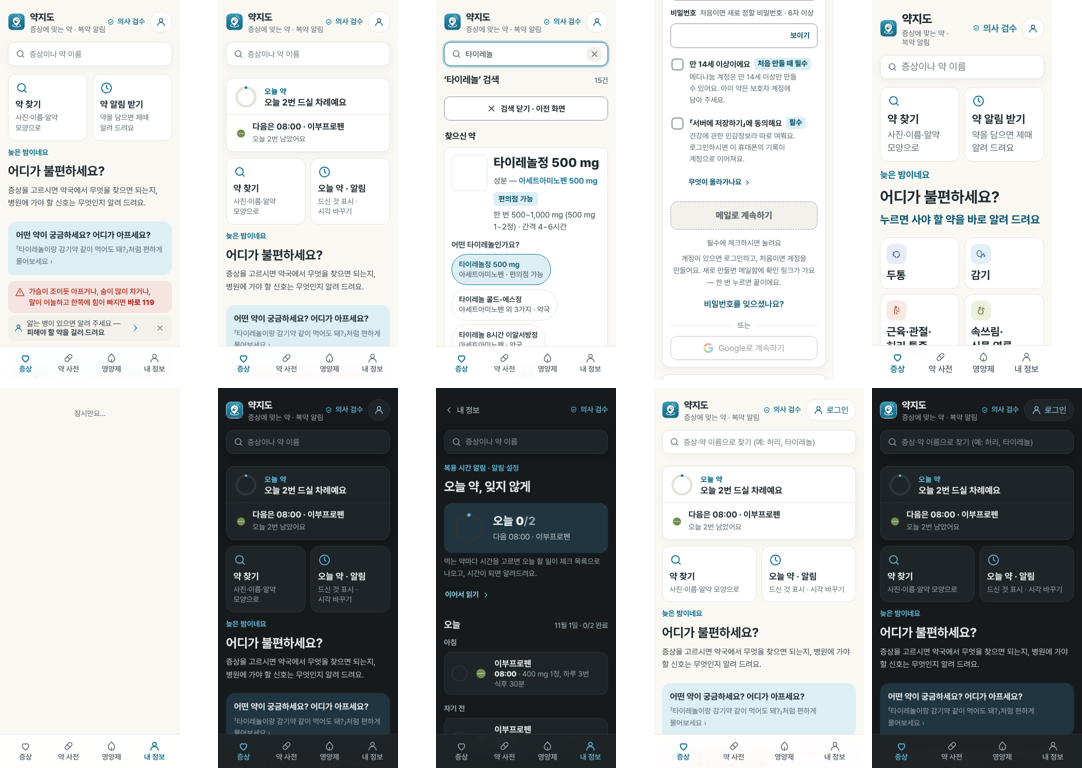
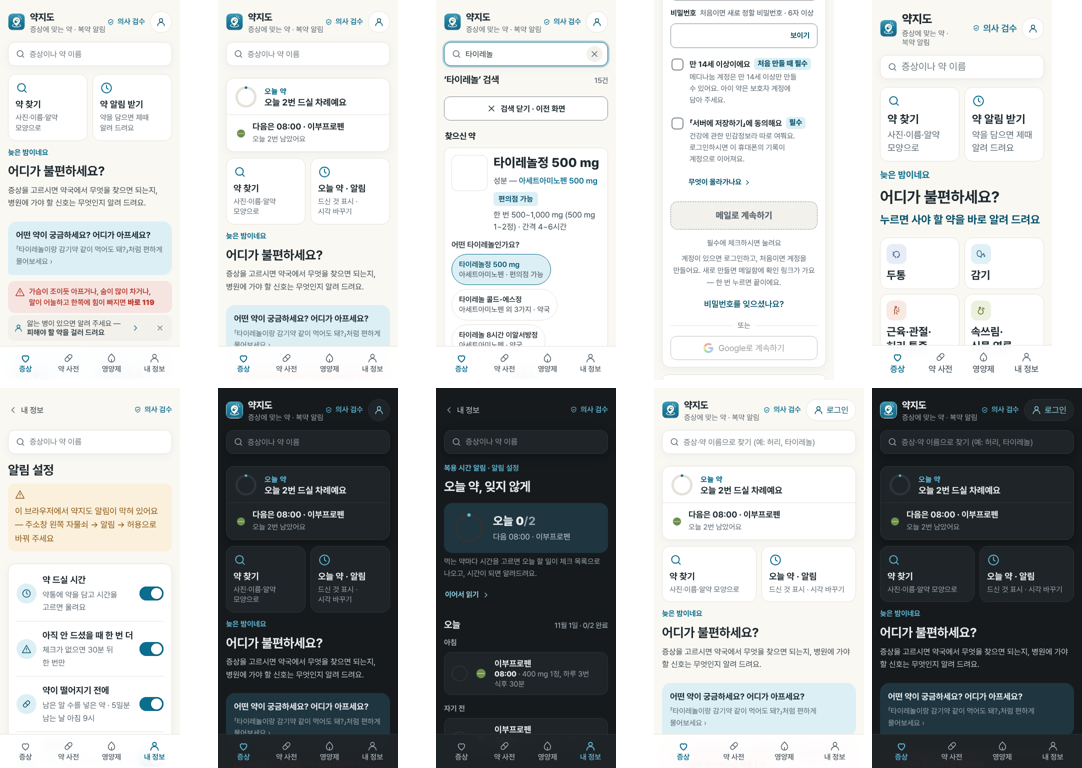
알림 설정 화면이 늦게 온 부품을 기다리다 「잠시만요」에 멈추던 것: 다시 그릴 목록에 notify·sgoal·sstage, 기다리는 동안 뼈대 칸 · 웹은 브라우저 알림 허용 안내
Claude-Session: https://claude.ai/code/session_01EnA5kC7cG7NGAyuaz7gY2Z

diff --git a/docs/yakjido/srv.js b/docs/yakjido/srv.js
@@ -1863,7 +1863,7 @@ window.문_notify = () => {
   const row = (ic, t, s2, on, fn) => `<div class="nt-row"><span class="nt-ic">${ic}</span><span class="nt-t"><b>${t}</b><small>${s2}</small></span>${sw(t, on, fn)}</div>`;
   const vn = (typeof visits === 'function' ? visits() : []).length;
   return `${topBar({ back:'내 정보' })}<h1>알림 설정</h1>
-  <p class="nt-perm ${perm === 'granted' ? 'ok' : ''}">${perm === 'granted' ? `${I.check}<span>휴대폰 알림이 켜져 있어요</span>` : perm === 'denied' ? `${I.alert}<span>휴대폰 설정에서 약지도 알림이 꺼져 있어요 — 설정 → 앱 → 약지도 → 알림을 켜 주세요</span>` : `${I.info}<span>알림을 받으려면 한 번 허락이 필요해요</span><button type="button" class="btn line" onclick="${NATIVE ? 'askNativeNoti()' : 'askNoti()'}">허락하기</button>`}</p>
+  <p class="nt-perm ${perm === 'granted' ? 'ok' : ''}">${perm === 'granted' ? `${I.check}<span>휴대폰 알림이 켜져 있어요</span>` : perm === 'denied' ? `${I.alert}<span>${typeof NATIVE !== 'undefined' && NATIVE ? '휴대폰 설정에서 약지도 알림이 꺼져 있어요 — 설정 → 앱 → 약지도 → 알림을 켜 주세요' : '이 브라우저에서 약지도 알림이 막혀 있어요 — 주소창 왼쪽 자물쇠 → 알림 → 허용으로 바꿔 주세요'}</span>` : `${I.info}<span>알림을 받으려면 한 번 허락이 필요해요</span><button type="button" class="btn line" onclick="${NATIVE ? 'askNativeNoti()' : 'askNoti()'}">허락하기</button>`}</p>
   <section class="sec card nt-list">
     ${row(I.clock, '약 드실 시간', n ? `시간을 정한 약 ${timed}가지 · 정한 시각에` : '약통에 약을 담고 시간을 고르면 울려요', noteOn('dose'), `setNoteOn('dose',${!noteOn('dose')})`)}
     ${row(I.alert, '아직 안 드셨을 때 한 번 더', '체크가 없으면 30분 뒤 한 번만', noteOn('dose') && noteOn('again'), `setNoteOn('again',${!noteOn('again')})`)}
@@ -2434,4 +2434,4 @@ try { 통합찾기.설치({ 앱: 'yakjido', 열기: function (url) { location.hr
 try { 이용량.설치({ 앱: 'yakjido', 켜짐: false, 주소: 'https://uszalzczpmyifzbamjno.supabase.co', 공개키: 'sb_publishable_YQSz-D-RCXzHGUhso06rMg_GOIIRDuV' }); 이용량.센다('open'); } catch (e) {}
 
 /* 내 정보·동의·로그인·약관 화면을 보고 있었으면 다시 그린다(이 파일이 늦게 오므로) */
-try { if (/^#\/(me|consent|login|doc|hello\/3|supp$|supp\?|sgoal|sstage|rx|about|search|myths|askdoc|talk|p\/|p\?|p$)/.test(location.hash)) route(); } catch (e) {}
+try { if (/^#\/(me|consent|login|notify|sgoal|sstage|doc|hello\/3|supp$|supp\?|sgoal|sstage|rx|about|search|myths|askdoc|talk|p\/|p\?|p$)/.test(location.hash)) route(); } catch (e) {}

diff --git a/yakjido/srv.js b/yakjido/srv.js
@@ -1863,7 +1863,7 @@ window.문_notify = () => {
   const row = (ic, t, s2, on, fn) => `<div class="nt-row"><span class="nt-ic">${ic}</span><span class="nt-t"><b>${t}</b><small>${s2}</small></span>${sw(t, on, fn)}</div>`;
   const vn = (typeof visits === 'function' ? visits() : []).length;
   return `${topBar({ back:'내 정보' })}<h1>알림 설정</h1>
-  <p class="nt-perm ${perm === 'granted' ? 'ok' : ''}">${perm === 'granted' ? `${I.check}<span>휴대폰 알림이 켜져 있어요</span>` : perm === 'denied' ? `${I.alert}<span>휴대폰 설정에서 약지도 알림이 꺼져 있어요 — 설정 → 앱 → 약지도 → 알림을 켜 주세요</span>` : `${I.info}<span>알림을 받으려면 한 번 허락이 필요해요</span><button type="button" class="btn line" onclick="${NATIVE ? 'askNativeNoti()' : 'askNoti()'}">허락하기</button>`}</p>
+  <p class="nt-perm ${perm === 'granted' ? 'ok' : ''}">${perm === 'granted' ? `${I.check}<span>휴대폰 알림이 켜져 있어요</span>` : perm === 'denied' ? `${I.alert}<span>${typeof NATIVE !== 'undefined' && NATIVE ? '휴대폰 설정에서 약지도 알림이 꺼져 있어요 — 설정 → 앱 → 약지도 → 알림을 켜 주세요' : '이 브라우저에서 약지도 알림이 막혀 있어요 — 주소창 왼쪽 자물쇠 → 알림 → 허용으로 바꿔 주세요'}</span>` : `${I.info}<span>알림을 받으려면 한 번 허락이 필요해요</span><button type="button" class="btn line" onclick="${NATIVE ? 'askNativeNoti()' : 'askNoti()'}">허락하기</button>`}</p>
   <section class="sec card nt-list">
     ${row(I.clock, '약 드실 시간', n ? `시간을 정한 약 ${timed}가지 · 정한 시각에` : '약통에 약을 담고 시간을 고르면 울려요', noteOn('dose'), `setNoteOn('dose',${!noteOn('dose')})`)}
     ${row(I.alert, '아직 안 드셨을 때 한 번 더', '체크가 없으면 30분 뒤 한 번만', noteOn('dose') && noteOn('again'), `setNoteOn('again',${!noteOn('again')})`)}
@@ -2434,4 +2434,4 @@ try { 통합찾기.설치({ 앱: 'yakjido', 열기: function (url) { location.hr
 try { 이용량.설치({ 앱: 'yakjido', 켜짐: false, 주소: 'https://uszalzczpmyifzbamjno.supabase.co', 공개키: 'sb_publishable_YQSz-D-RCXzHGUhso06rMg_GOIIRDuV' }); 이용량.센다('open'); } catch (e) {}
 
 /* 내 정보·동의·로그인·약관 화면을 보고 있었으면 다시 그린다(이 파일이 늦게 오므로) */
-try { if (/^#\/(me|consent|login|doc|hello\/3|supp$|supp\?|sgoal|sstage|rx|about|search|myths|askdoc|talk|p\/|p\?|p$)/.test(location.hash)) route(); } catch (e) {}
+try { if (/^#\/(me|consent|login|notify|sgoal|sstage|doc|hello\/3|supp$|supp\?|sgoal|sstage|rx|about|search|myths|askdoc|talk|p\/|p\?|p$)/.test(location.hash)) route(); } catch (e) {}

diff --git a/docs/yakjido/index.html b/docs/yakjido/index.html
@@ -1395,7 +1395,7 @@ body .cmp-bar,body .toast{left:calc(50% + 124px)}body .toast{bottom:40px}.cmp-ba
 
 
 .swatch.on{border-color:var(--primary);background:var(--tint);color:var(--primary-deep)}
-.loading{padding:var(--s5);text-align:center;color:var(--muted);font-size:.875rem}
+.loading{padding:var(--s5);text-align:center;color:var(--muted);font-size:.875rem}.sk i{display:block;height:96px;margin:16px 0;border-radius:16px;background:var(--hairline)}.sk i:first-child{height:44px;width:60%}
 .big-btn{display:flex;align-items:center;gap:14px;width:100%;text-align:left;padding:18px;border-radius:18px;background:var(--primary);color:var(--on-primary);box-shadow:var(--shadow-raised);min-height:76px}
 .big-btn .ic{width:48px;height:48px;border-radius:14px;background:rgba(255,255,255,.18);display:grid;place-items:center;flex:none}
 .big-btn .ic svg.i{width:26px;height:26px;stroke:var(--on-primary)}
@@ -1768,7 +1768,7 @@ background-repeat:no-repeat;background-position:right 9px center;background-size
 <script>
 window.__YAKJIDO_OK__ = true;
 const D = JSON.parse(document.getElementById('data').textContent || '{}');
-const BUILD = '2026-11-01 01:01';
+const BUILD = '2026-11-01 01:14';
 const DATAV = 'b3df5293ae'.indexOf('__') === 0 ? BUILD : 'b3df5293ae';
 const BRANDMARK = (typeof window !== 'undefined' && window.__BRANDMARK__) || 'icon-192.png';
 let CORE = 0, CORE_P = null;
@@ -6986,7 +6986,7 @@ function consentGate(s, h){ const ok = consentOk();
 if (ok ? s !== 'consent' : s === 'consent' || s === 'doc') return false;
 if (!ok) try { sessionStorage.setItem(CONSENT_NEXT, h); } catch (e) {}
 try { location.replace(location.href.split('#')[0] + (ok ? '#/home' : '#/consent')); } catch (e) {} return true; }
-const vDoor = (a, q) => { const f = window['문_' + (location.hash.match(/^#\/?([a-z]+)/) || [])[1]]; return f ? f(a, q) : '<p class="loading">잠시만요…</p>'; };
+const vDoor = (a, q) => { const f = window['문_' + (location.hash.match(/^#\/?([a-z]+)/) || [])[1]]; return f ? f(a, q) : '<div class="sk" aria-busy="true" aria-label="불러오는 중"><i></i><i></i><i></i></div>'; };
 const ext = n => window[n] ? window[n]() : '';
 const 잠김 = k => !!(window.구독 && !구독.열림(k));
 

diff --git a/yakjido/app-shell.html b/yakjido/app-shell.html
@@ -1537,7 +1537,7 @@ body .cmp-bar,body .toast{left:calc(50% + 124px)}body .toast{bottom:40px}.cmp-ba
 
 
 .swatch.on{border-color:var(--primary);background:var(--tint);color:var(--primary-deep)}
-.loading{padding:var(--s5);text-align:center;color:var(--muted);font-size:.875rem}
+.loading{padding:var(--s5);text-align:center;color:var(--muted);font-size:.875rem}.sk i{display:block;height:96px;margin:16px 0;border-radius:16px;background:var(--hairline)}.sk i:first-child{height:44px;width:60%}
 /* 약 알아보기(사진·식별) */
 .big-btn{display:flex;align-items:center;gap:14px;width:100%;text-align:left;padding:18px;border-radius:18px;background:var(--primary);color:var(--on-primary);box-shadow:var(--shadow-raised);min-height:76px}
 .big-btn .ic{width:48px;height:48px;border-radius:14px;background:rgba(255,255,255,.18);display:grid;place-items:center;flex:none}
@@ -8269,7 +8269,7 @@ function consentGate(s, h){ const ok = consentOk();
   if (ok ? s !== 'consent' : s === 'consent' || s === 'doc') return false;
   if (!ok) try { sessionStorage.setItem(CONSENT_NEXT, h); } catch (e) {}
   try { location.replace(location.href.split('#')[0] + (ok ? '#/home' : '#/consent')); } catch (e) {} return true; }
-const vDoor = (a, q) => { const f = window['문_' + (location.hash.match(/^#\/?([a-z]+)/) || [])[1]]; return f ? f(a, q) : '<p class="loading">잠시만요…</p>'; };
+const vDoor = (a, q) => { const f = window['문_' + (location.hash.match(/^#\/?([a-z]+)/) || [])[1]]; return f ? f(a, q) : '<div class="sk" aria-busy="true" aria-label="불러오는 중"><i></i><i></i><i></i></div>'; };
 /* 약관 칸·계정 줄·처음 안내의 계정 칸은 srv.js 가 그린다(첫 화면 예산) — 오기 전엔 빈칸 */
 const ext = n => window[n] ? window[n]() : '';
 /* 구독 잠금(스위치가 꺼져 있으면 늘 false — 잠금 목록은 srv.js 구독.설치) */

diff --git a/docs/yakjido/sw.js b/docs/yakjido/sw.js
@@ -9,7 +9,7 @@
                        판이 같으면 캐시 그대로, 판이 바뀌면 새로 받아 넣고 옛 판은 지운다(prune).
    판 없는 옛 주소는 «캐시 먼저» — 한 번 받은 것은 즉시 열리고, 뒤에서 조용히 새로 받아 둔다.
    인터넷이 안 되면 어느 캐시에든 있는 사본을 준다(5-01 — 첫 방문 뒤 비행기 모드에서 본문이 안 뜨던 것). */
-const CACHE = 'yakjido-2026-11-01T01:01-00214a4e';
+const CACHE = 'yakjido-2026-11-01T01:14-4bb4ceec';
 const DATA = 'yakjido-data-v1';
 /* 기내 모드·바깥 파일 0(10-27) — 글꼴(fonts/)·로그인 프로그램(vendor/)은 배포 묶음 안. 판이 박힌 꾸러미라 내용이 안 바뀌니 «캐시 먼저», 앱 판이 바뀌어도 지우지 않는다(EXT).
    바깥 주소는 하나도 담지 않는다 — 서버 응답(supabase REST)·날씨는 그대로 지나간다(09-22 원칙) */
